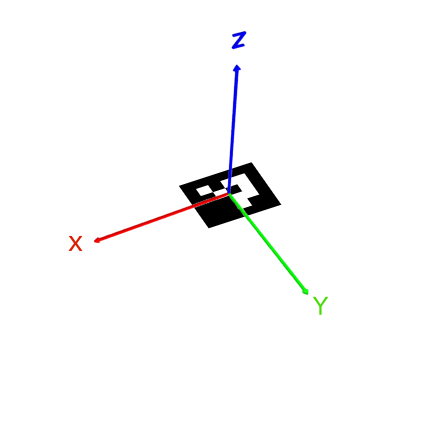
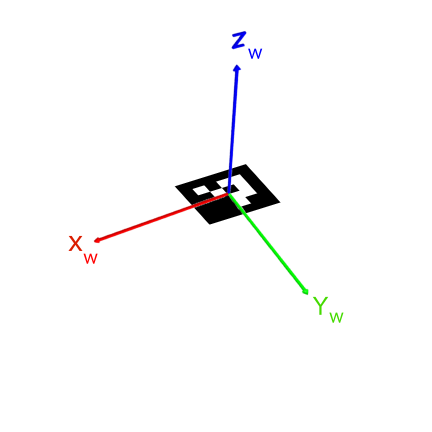
tvecはメートルよ

diff --git a/ArUcoworld/multiarucoco.py b/ArUcoworld/multiarucoco.py
@@ -1,0 +1,61 @@
+import cv2
+import numpy as np
+import cv2.aruco as aruco
+
+# ArUco辞書の定義
+aruco_dict = aruco.getPredefinedDictionary(aruco.DICT_6X6_250)
+parameters = aruco.DetectorParameters()
+
+# コンポジットマーカーを生成する関数
+def create_composite_marker(ids, side_length=200, margin=10):
+    num_markers = len(ids)
+    markers = [aruco.generateImageMarker(aruco_dict, id, side_length) for id in ids]
+    marker_size = side_length + 2 * margin
+    composite_image = np.zeros((marker_size, marker_size * num_markers), dtype=np.uint8)
+    
+    for i, marker in enumerate(markers):
+        start_x = i * marker_size + margin
+        composite_image[margin:margin+side_length, start_x:start_x+side_length] = marker
+        
+    return composite_image
+
+# マーカーIDリスト
+marker_ids = [10, 20, 30, 40]
+
+# コンポジットマーカーの生成
+composite_marker = create_composite_marker(marker_ids)
+
+# コンポジットマーカーの保存
+cv2.imwrite('composite_marker.png', composite_marker)
+
+# マーカーの検出と認識
+cap = cv2.VideoCapture(0)
+
+while True:
+    ret, frame = cap.read()
+    if not ret:
+        break
+
+    gray = cv2.cvtColor(frame, cv2.COLOR_BGR2GRAY)
+    corners, ids, rejectedImgPoints = aruco.detectMarkers(gray, aruco_dict, parameters=parameters)
+    
+    if ids is not None:
+        # マーカーを描画
+        frame = aruco.drawDetectedMarkers(frame, corners, ids)
+        
+        # 各マーカーの位置とIDを取得
+        for i, corner in enumerate(corners):
+            id = ids[i][0]
+            # ここで、各マーカーの情報を用いて一つのマーカーとしての処理を行う
+            # 例: 中心位置を計算
+            center = np.mean(corner[0], axis=0)
+            cv2.circle(frame, tuple(center.astype(int)), 5, (0, 255, 0), -1)
+            cv2.putText(frame, str(id), tuple(center.astype(int)), cv2.FONT_HERSHEY_SIMPLEX, 1, (255, 0, 0), 2)
+        
+    cv2.imshow('frame', frame)
+    
+    if cv2.waitKey(1) & 0xFF == ord('q'):
+        break
+
+cap.release()
+cv2.destroyAllWindows()

diff --git a/tyukanzu/zahyou2.py b/tyukanzu/zahyou2.py
@@ -1,0 +1,57 @@
+import matplotlib.pyplot as plt
+import numpy as np
+
+# 図の作成
+fig = plt.figure(figsize=(12, 8))
+
+# 3Dプロット用の設定
+ax = fig.add_subplot(111, projection='3d')
+
+# 世界座標系の点
+world_points = np.array([
+    [0, 0, 0],
+    [1, 0, 0],
+    [0, 1, 0],
+    [0, 0, 1]
+])
+world_points_labels = ['W_origin', 'X_w', 'Y_w', 'Z_w']
+
+# カメラ座標系の点
+R = np.eye(3)  # カメラの回転行列（単位行列と仮定）
+t = np.array([2, 2, 2])  # カメラの平行移動ベクトル
+camera_points = (R @ world_points.T).T + t
+camera_points_labels = ['C_origin', 'X_c', 'Y_c', 'Z_c']
+
+# 画像座標系の点（カメラ座標系から投影）
+K = np.array([
+    [1000, 0, 320],
+    [0, 1000, 240],
+    [0, 0, 1]
+])
+image_points = (K @ camera_points.T).T
+image_points = image_points[:, :2] / image_points[:, 2, np.newaxis]
+image_points_labels = ['I_origin', 'X_i', 'Y_i', 'Z_i']
+
+# 世界座標系のプロット
+ax.scatter(world_points[:, 0], world_points[:, 1], world_points[:, 2], color='r')
+for i, label in enumerate(world_points_labels):
+    ax.text(world_points[i, 0], world_points[i, 1], world_points[i, 2], label)
+
+# カメラ座標系のプロット
+ax.scatter(camera_points[:, 0], camera_points[:, 1], camera_points[:, 2], color='b')
+for i, label in enumerate(camera_points_labels):
+    ax.text(camera_points[i, 0], camera_points[i, 1], camera_points[i, 2], label)
+
+# 画像座標系のプロット
+for i, label in enumerate(image_points_labels):
+    plt.scatter(image_points[i, 0], image_points[i, 1], color='g')
+    plt.text(image_points[i, 0], image_points[i, 1], label, fontsize=12, color='g')
+
+# ラベルの設定
+ax.set_xlabel('X')
+ax.set_ylabel('Y')
+ax.set_zlabel('Z')
+ax.set_title('World, Camera, and Image Coordinate Systems')
+
+# プロットの表示
+plt.show()

diff --git a/tyukanzu/zahyou.py b/tyukanzu/zahyou.py
@@ -1,0 +1,57 @@
+import matplotlib.pyplot as plt
+from mpl_toolkits.mplot3d import Axes3D
+import numpy as np
+
+def draw_coordinate_system(ax, origin, R, label, color='r'):
+    """
+    座標系を描画するためのヘルパー関数
+    :param ax: matplotlibのAxes3Dオブジェクト
+    :param origin: 座標系の原点
+    :param R: 回転行列
+    :param label: 座標系のラベル
+    :param color: 座標軸の色
+    """
+    # 各軸の描画
+    for i in range(3):
+        axis = np.zeros((2, 3))
+        axis[1, i] = 1
+        axis = (R @ axis.T).T + origin
+        ax.plot(axis[:, 0], axis[:, 1], axis[:, 2], color=color)
+        ax.text(axis[1, 0], axis[1, 1], axis[1, 2], f'{label}{i + 1}', color=color)
+
+# 図の初期化
+fig = plt.figure()
+ax = fig.add_subplot(111, projection='3d')
+
+# 世界座標系の定義
+origin_world = np.array([0, 0, 0])
+R_world = np.eye(3)
+
+# カメラ座標系の定義
+origin_camera = np.array([1, 1, 1])
+R_camera = np.array([[0.866, -0.5, 0],
+                     [0.5, 0.866, 0],
+                     [0, 0, 1]])
+
+# 座標系の描画
+draw_coordinate_system(ax, origin_world, R_world, 'W', 'b')
+draw_coordinate_system(ax, origin_camera, R_camera, 'C', 'r')
+
+# 点の定義（例として世界座標系の点をカメラ座標系に変換）
+point_world = np.array([2, 2, 2])
+point_camera = R_camera @ point_world + origin_camera
+
+# 点の描画
+ax.scatter(*point_world, color='b')
+ax.text(*point_world, 'P_w', color='b')
+ax.scatter(*point_camera, color='r')
+ax.text(*point_camera, 'P_c', color='r')
+
+# 図の設定
+ax.set_xlabel('X')
+ax.set_ylabel('Y')
+ax.set_zlabel('Z')
+ax.set_title('Coordinate Systems: World (W) and Camera (C)')
+ax.view_init(20, 30)
+
+plt.show()

diff --git a/ArUcoworld/tubusuyo.py b/ArUcoworld/tubusuyo.py
@@ -1,0 +1,52 @@
+import cv2
+import numpy as np
+
+# カメラキャリブレーションパラメータ
+camera_matrix = np.array([[806.02530003, 0, 311.20867267],
+                          [0, 753.39260589, 241.68028089],
+                          [0, 0, 1]], dtype=float)
+dist_coeffs = np.array([-3.34701294e-01, 1.24171341e+01, 1.31389192e-03, -1.00705953e-02, -1.12565810e+02], dtype=float)
+
+# ArUcoマーカーの辞書と検出パラメータ
+aruco_dict = cv2.aruco.getPredefinedDictionary(cv2.aruco.DICT_4X4_50)
+parameters = cv2.aruco.DetectorParameters()
+
+# カメラ映像の取得
+cap = cv2.VideoCapture(0)
+
+while cap.isOpened():
+    ret, frame = cap.read()
+    if not ret:
+        break
+
+    # グレースケール変換
+    gray = cv2.cvtColor(frame, cv2.COLOR_BGR2GRAY)
+
+    # マーカーの検出
+    corners, ids, _ = cv2.aruco.detectMarkers(gray, aruco_dict, parameters=parameters)
+
+    if ids is not None:
+        # 姿勢推定
+        rvecs, tvecs, _ = cv2.aruco.estimatePoseSingleMarkers(corners, 0.05, camera_matrix, dist_coeffs)
+
+        for i in range(len(ids)):
+            rvec, tvec = rvecs[i], tvecs[i]
+
+            # 回転行列に変換
+            rotation_matrix, _ = cv2.Rodrigues(rvec)
+            print(f"Marker ID: {ids[i]}")
+            print(f"Rotation Vector:\n{rvec}")
+            print(f"Translation Vector:\n{tvec}")
+            print(f"Rotation Matrix:\n{rotation_matrix}")
+
+
+    # マーカーの描画
+    cv2.aruco.drawDetectedMarkers(frame, corners, ids)
+
+    cv2.imshow('ArUco Detection', frame)
+
+    if cv2.waitKey(1) & 0xFF == ord('q'):
+        break
+
+cap.release()
+cv2.destroyAllWindows()

diff --git a/ArUcoworld/arucoworld.py b/ArUcoworld/arucoworld.py
@@ -29,20 +29,21 @@ while True:
     if np.all(ids is not None):
         # 各マーカーを処理
         for i in range(len(ids)):
-            rvec, tvec, _objPoints = cv2.aruco.estimatePoseSingleMarkers(corners[i], 0.05, camera_matrix, dist_coeffs)
+            rvec, tvec, _objPoints = cv2.aruco.estimatePoseSingleMarkers(corners[i], 0.02, camera_matrix, dist_coeffs)
 
             # 画像座標系での2次元座標を表示
-            for corner in corners[i][0]:
+            #for corner in corners[i][0]:
                 #cv2.circle(frame, tuple(corner.astype(int)), 5, (0, 255, 0), 2)
-                print(f"2D Image Coordinates: {corner}")
+                #print(f"2D Image Coordinates: {corner}")
 
             # カメラ座標系での3次元座標を表示
-            #print(f"3D Camera Coordinates (tvec): {tvec[0][0]}")
-
+            print(f"3D Camera Coordinates (tvec): {tvec}")
+            rotation_matrix, _ = cv2.Rodrigues(rvec)
+            #print(f"3D Camera Coordinates (rvec): {rvec}")
             #print(f"3D Camera Coordinates (tvec): {_objPoints[0][0]}")
 
             #マーカーの軸を描画
-            cv2.drawFrameAxes(frame, camera_matrix, dist_coeffs, rvec, tvec, 0.1)
+            #cv2.drawFrameAxes(frame, camera_matrix, dist_coeffs, rvec, tvec, 0.1)
 
     # 検出されたマーカーの輪郭を描画
     cv2.aruco.drawDetectedMarkers(frame, corners, ids)
